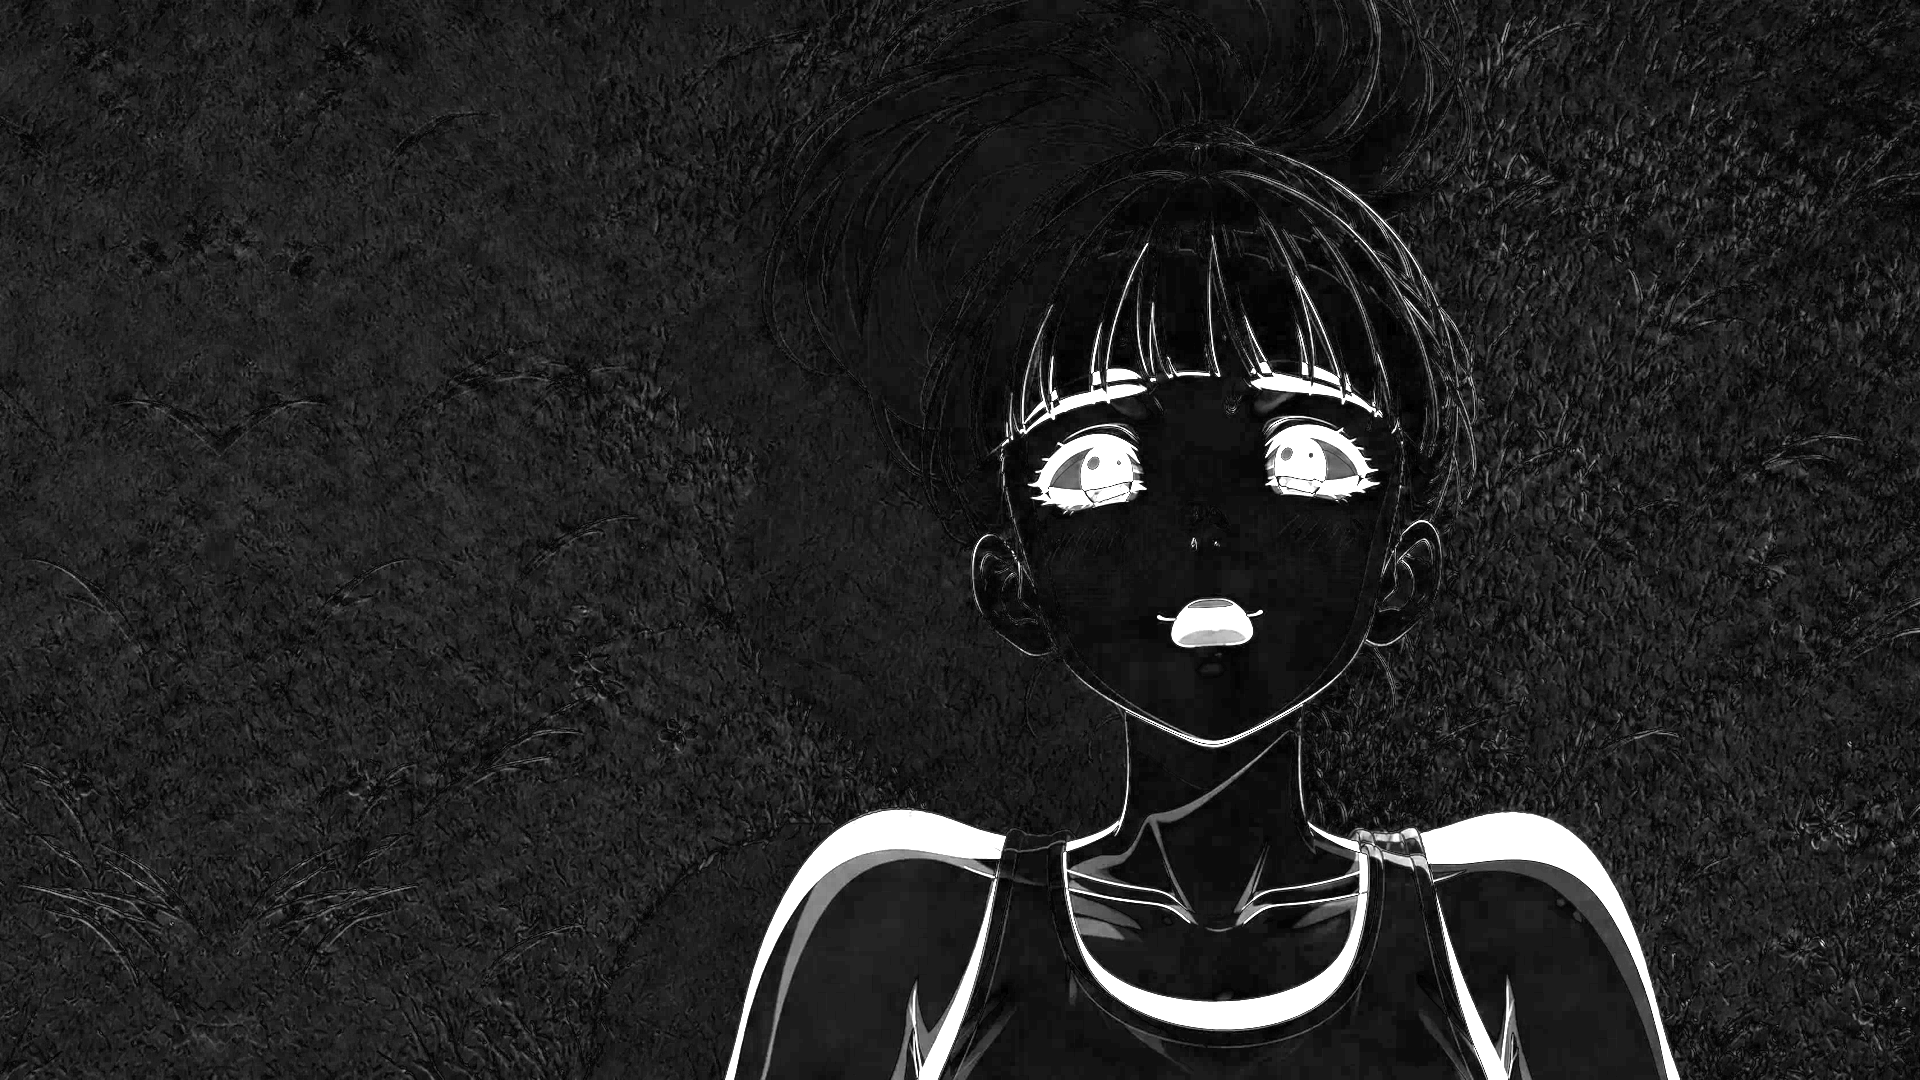
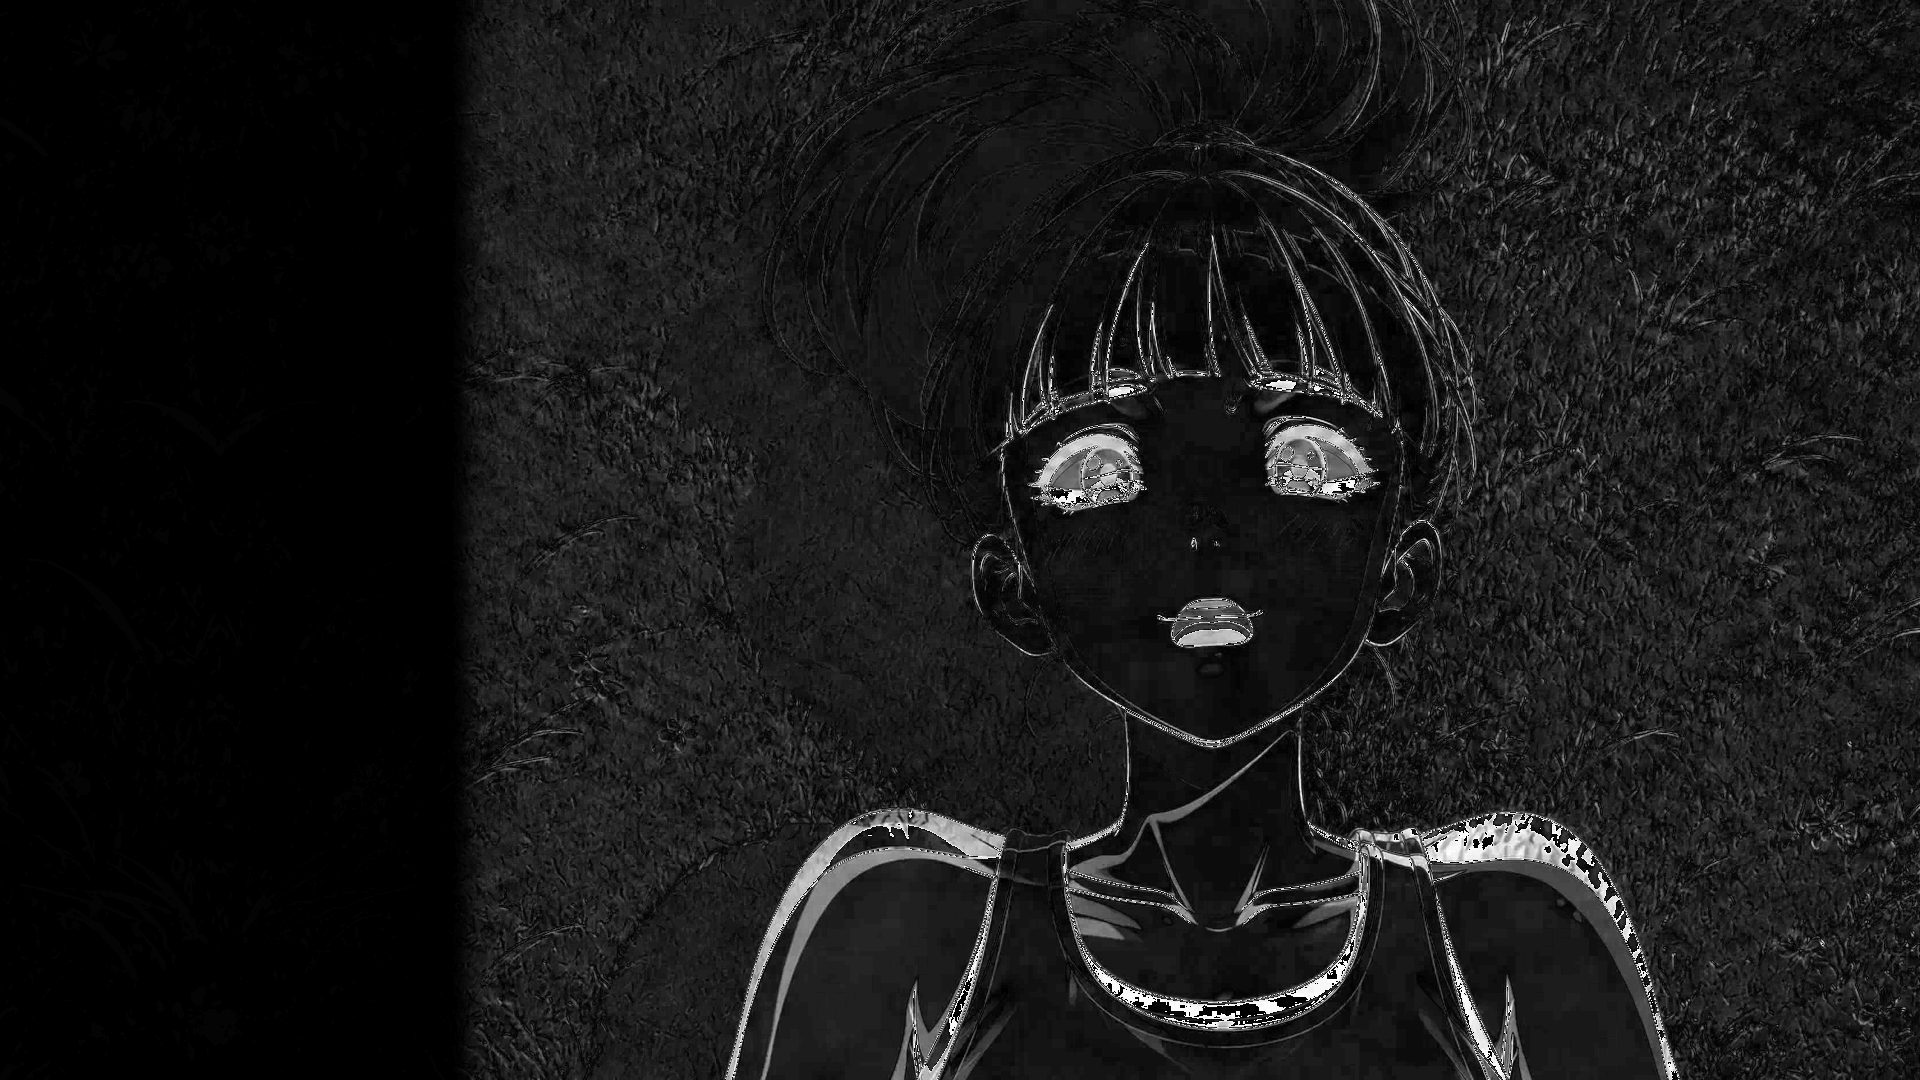
S2/S4 frames: apply audit conditions

diff --git a/pain_before_success/audit_log.md b/pain_before_success/audit_log.md
@@ -120,3 +120,6 @@
 - S2 首幀（用戶提供）`shot_02_start_raw.png`→`shot_02_start.png`：程式疊圖——牆／檯燈差異 1.7、小晴 3.8、床 4.6、舊鞋 8.7（皆小，背景與睡姿穩定）；紅鞋已從地板移到媽媽手上（地板空地差異 43.8，預期內）；媽媽頭低下（17.3，預期內）。鞋數：地上舊鞋 2＋手中紅鞋 2。小瑕疵：媽媽左手（畫面左）握鞋的位置靠近小晴腳。
 - S4 首幀（用戶提供）→`shot_04_start.png`：臉差異 17.2（閉眼張嘴，預期內）、肩膀 22.5（呼吸時肩膀抬高，預期內）、頭髮頂 5.5、左右草地 8–10（輕微重繪）。臉約 63%。
 - 疊圖／差異圖／手機縮圖已產生；送審中。
+- S2／S4 首尾幀審核：**S2 有條件通過、S4 有條件通過**。條件：S2 尾幀媽媽髮頂貼上緣（→ **取消 S2 的 5% 推近**，固定機位）、首尾髮圈同色、紗布與睡姿首尾一致；S4 鏡像補草地有明顯對稱 V 形與花叢接縫。
+- 處理：S2——尾幀髮圈殘留粉點清除；首幀把「小晴＋床＋檯燈＋牆」與「舊鞋」從尾幀貼入（羽化），使睡姿／紗布／髮圈首尾逐像素一致（差異 0.00），只剩媽媽與紅鞋位置不同；首幀地板殘留紅邊已清（紅色像素 0）。S4——左側補草改成「180° 旋轉＋羽化」並消除暗色接縫（V 形與花叢對稱已無），首幀左側同步。原版備份 `04_frames/v1_backup/`。
+- S4 肩膀首尾高度差約 35–45px：接受，影片提示詞限制「小幅起伏」。S4 的 5% 拉遠仍在後期做（髮頂未被裁）。
